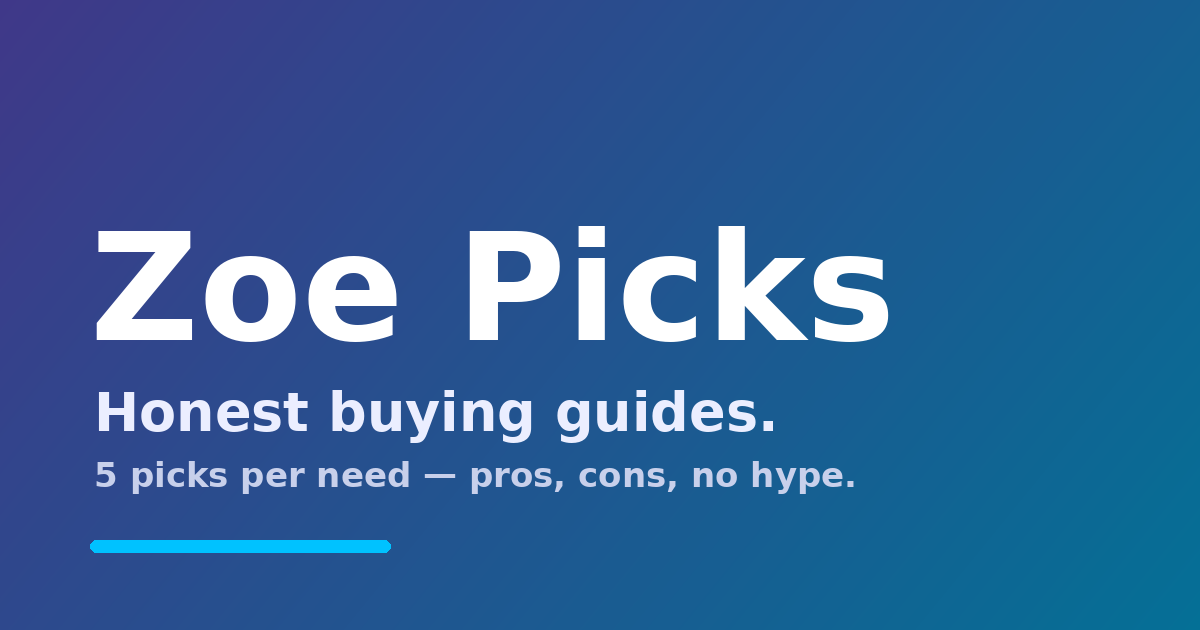
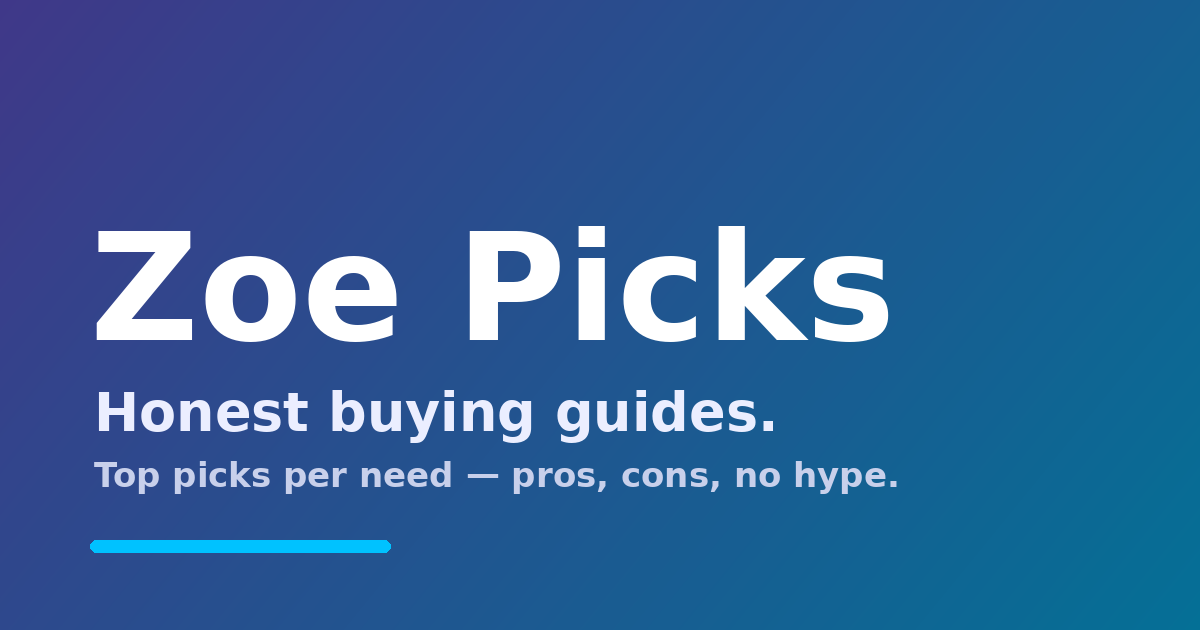
New guide: Best Chromebooks (2026) top 3 from PCWorld testing; og image/homepage copy no longer say '5 picks'

Changed region(s): [[0.0617, 0.7238, 0.74, 0.7841]]

diff --git a/index.html b/index.html
@@ -1,12 +1,12 @@
 <!doctype html><html lang="en"><head><meta charset="utf-8"><meta name="viewport" content="width=device-width,initial-scale=1,viewport-fit=cover">
-<title>Zoe Picks — honest buying guides</title><meta name="description" content="Short, honest comparisons of 5 products for what you actually need. No hype, clear pros and cons.">
-<link rel="canonical" href="https://zoepicks.github.io/"><meta property="og:title" content="Zoe Picks — honest buying guides"><meta property="og:description" content="Short, honest comparisons of 5 products for what you actually need. No hype, clear pros and cons."><meta property="og:type" content="website"><meta property="og:url" content="https://zoepicks.github.io/"><meta property="og:image" content="https://zoepicks.github.io/assets/og.png?v=bcbf76a9"><meta property="og:image:width" content="1200"><meta property="og:image:height" content="630"><meta name="twitter:card" content="summary_large_image"><meta name="twitter:image" content="https://zoepicks.github.io/assets/og.png?v=bcbf76a9">
+<title>Zoe Picks — honest buying guides</title><meta name="description" content="Short, honest comparisons of the best products for what you actually need. No hype, clear pros and cons.">
+<link rel="canonical" href="https://zoepicks.github.io/"><meta property="og:title" content="Zoe Picks — honest buying guides"><meta property="og:description" content="Short, honest comparisons of the best products for what you actually need. No hype, clear pros and cons."><meta property="og:type" content="website"><meta property="og:url" content="https://zoepicks.github.io/"><meta property="og:image" content="https://zoepicks.github.io/assets/og.png?v=ab96e2e8"><meta property="og:image:width" content="1200"><meta property="og:image:height" content="630"><meta name="twitter:card" content="summary_large_image"><meta name="twitter:image" content="https://zoepicks.github.io/assets/og.png?v=ab96e2e8">
 <link rel="preconnect" href="https://fonts.googleapis.com"><link href="https://fonts.googleapis.com/css2?family=Inter:wght@400;500;700;800&display=swap" rel="stylesheet"><link rel="stylesheet" href="assets/style.css"></head><body>
 <nav><div class="wrap"><a class="logo" href="./">Zoe <b>Picks</b></a><a class="l" href="#how">How we pick</a></div></nav>
-<main class="wrap"><section class="hero"><h1>Buy the right thing,<br><span>not the loudest one.</span></h1><p>Five carefully chosen options for your exact need — with the downsides spelled out.</p>
+<main class="wrap"><section class="hero"><h1>Buy the right thing,<br><span>not the loudest one.</span></h1><p>Carefully chosen picks for your exact need — with the downsides spelled out.</p>
 <div class="chips"><span class="chip">✔ Pros &amp; cons</span><span class="chip">✔ Best for whom</span><span class="chip">✔ No fake specs</span></div></section>
 <h2>Browse by category</h2><div class="bento" id="cats"><!--CATS--><a class="cat" href="category.html?c=home_kitchen"><i>🍳</i><b>Home &amp; Kitchen</b></a><a class="cat" href="category.html?c=electronics"><i>🎧</i><b>Electronics</b></a><a class="cat" href="category.html?c=computers_phones"><i>💻</i><b>Computers &amp; Phones</b></a><a class="cat" href="category.html?c=beauty_health"><i>🧴</i><b>Beauty &amp; Health</b></a><a class="cat" href="category.html?c=fitness_outdoor"><i>🏃</i><b>Fitness &amp; Outdoor</b></a><a class="cat" href="category.html?c=fashion"><i>👟</i><b>Fashion</b></a><a class="cat" href="category.html?c=toys_kids"><i>🧸</i><b>Toys &amp; Kids</b></a><a class="cat" href="category.html?c=tools_auto"><i>🔧</i><b>Tools &amp; Auto</b></a><a class="cat" href="category.html?c=pets"><i>🐶</i><b>Pets</b></a><a class="cat" href="category.html?c=office_books"><i>📚</i><b>Office &amp; Books</b></a><a class="cat" href="category.html?c=gaming"><i>🎮</i><b>Gaming</b></a><a class="cat" href="category.html?c=smart_home"><i>🏠</i><b>Smart Home &amp; TV</b></a><a class="cat" href="category.html?c=furniture_decor"><i>🛋</i><b>Furniture &amp; Decor</b></a><a class="cat" href="category.html?c=hobby_music"><i>🎸</i><b>Hobby &amp; Music</b></a><a class="cat" href="category.html?c=other"><i>✨</i><b>More</b></a><!--/CATS--></div>
-<h2>Latest guides</h2><div class="list" id="latest"><!--GUIDES--><a class="item" href="g/best-lightweight-laptops-2026/"><span><b>Best Lightweight Laptops (2026)</b><br><small>Computers &amp; Phones</small></span><small>Oct 15, 2026</small></a><a class="item" href="g/best-laptops-for-battery-life-2026/"><span><b>Best Laptops for All-Day Battery Life (2026)</b><br><small>Computers &amp; Phones</small></span><small>Oct 15, 2026</small></a><a class="item" href="g/best-gaming-laptops-2026/"><span><b>Best Gaming Laptops (2026)</b><br><small>Gaming</small></span><small>Oct 15, 2026</small></a><a class="item" href="g/best-laptops-for-college-students-2026/"><span><b>Best Laptops for College Students (2026)</b><br><small>Computers &amp; Phones</small></span><small>Oct 15, 2026</small></a><!--/GUIDES--></div>
+<h2>Latest guides</h2><div class="list" id="latest"><!--GUIDES--><a class="item" href="g/best-chromebooks-2026/"><span><b>Best Chromebooks (2026)</b><br><small>Computers &amp; Phones</small></span><small>Oct 15, 2026</small></a><a class="item" href="g/best-lightweight-laptops-2026/"><span><b>Best Lightweight Laptops (2026)</b><br><small>Computers &amp; Phones</small></span><small>Oct 15, 2026</small></a><a class="item" href="g/best-laptops-for-battery-life-2026/"><span><b>Best Laptops for All-Day Battery Life (2026)</b><br><small>Computers &amp; Phones</small></span><small>Oct 15, 2026</small></a><a class="item" href="g/best-gaming-laptops-2026/"><span><b>Best Gaming Laptops (2026)</b><br><small>Gaming</small></span><small>Oct 15, 2026</small></a><a class="item" href="g/best-laptops-for-college-students-2026/"><span><b>Best Laptops for College Students (2026)</b><br><small>Computers &amp; Phones</small></span><small>Oct 15, 2026</small></a><!--/GUIDES--></div>
 <h2 id="how">How we pick</h2><div class="how"><div><b>1 · Start from your need</b><span>Budget and use-case first, then specs that matter for that use.</span></div><div><b>2 · Compare real trade-offs</b><span>Every product lists strengths and limits — no one-size-fits-all “best”.</span></div><div><b>3 · Skip what we can't verify</b><span>If a spec or price isn't reliable, we leave it out or mark it unverified.</span></div></div>
 <p class="disc"><b>Disclosure:</b> As an Amazon Associate we earn from qualifying purchases. Links are affiliate links; they cost you nothing extra. Prices change often — always check the current price on Amazon.</p>
 <footer>© Zoe Picks · <a href="https://www.amazon.com">Amazon and the Amazon logo are trademarks of Amazon.com, Inc.</a></footer></main>

diff --git a/g/best-laptops-for-college-students-2026/index.html b/g/best-laptops-for-college-students-2026/index.html
@@ -1,6 +1,6 @@
 <!doctype html><html lang="en"><head><meta charset="utf-8"><meta name="viewport" content="width=device-width,initial-scale=1,viewport-fit=cover">
 <title>Best Laptops for College Students (2026) — Zoe Picks</title><meta name="description" content="5 top-rated laptops for classes, notes and all-day campus use — Windows, Mac and Chromebook options.">
-<meta property="og:title" content="Best Laptops for College Students (2026)"><meta property="og:description" content="5 top-rated laptops for classes, notes and all-day campus use — Windows, Mac and Chromebook options."><meta property="og:type" content="article"><meta property="og:url" content="https://zoepicks.github.io/g/best-laptops-for-college-students-2026/"><link rel="canonical" href="https://zoepicks.github.io/g/best-laptops-for-college-students-2026/"><meta property="og:image" content="https://zoepicks.github.io/assets/og.png?v=bcbf76a9"><meta property="og:image:width" content="1200"><meta property="og:image:height" content="630"><meta name="twitter:card" content="summary_large_image"><meta name="twitter:image" content="https://zoepicks.github.io/assets/og.png?v=bcbf76a9">
+<meta property="og:title" content="Best Laptops for College Students (2026)"><meta property="og:description" content="5 top-rated laptops for classes, notes and all-day campus use — Windows, Mac and Chromebook options."><meta property="og:type" content="article"><meta property="og:url" content="https://zoepicks.github.io/g/best-laptops-for-college-students-2026/"><link rel="canonical" href="https://zoepicks.github.io/g/best-laptops-for-college-students-2026/"><meta property="og:image" content="https://zoepicks.github.io/assets/og.png?v=ab96e2e8"><meta property="og:image:width" content="1200"><meta property="og:image:height" content="630"><meta name="twitter:card" content="summary_large_image"><meta name="twitter:image" content="https://zoepicks.github.io/assets/og.png?v=ab96e2e8">
 <link href="https://fonts.googleapis.com/css2?family=Inter:wght@400;500;700;800&display=swap" rel="stylesheet"><link rel="stylesheet" href="../../assets/style.css"></head><body>
 <nav><div class="wrap"><a class="logo" href="../../">Zoe <b>Picks</b></a><a class="l" href="../../category.html?c=computers_phones">Computers &amp; Phones</a></div></nav>
 <main class="wrap"><div class="g-head"><div class="crumb">Computers &amp; Phones · Oct 15, 2026</div><h1>Best Laptops for College Students (2026)</h1><p class="sum">5 top-rated laptops for classes, notes and all-day campus use — Windows, Mac and Chromebook options.</p></div>
@@ -11,5 +11,5 @@
 <article class="card"><span class="rank">Best Chromebook</span><h3>Asus Chromebook Plus CX34</h3><ul class="specs"><li>Core i5-1335U</li><li>8GB RAM</li><li>128GB storage</li><li>14-in 1080p touchscreen</li><li>~13h battery</li><li>3.17 lb</li></ul><div class="pc"><div class="pro"><b>Pros</b><ul><li>Snappy for everyday tasks</li><li>Nice keyboard</li><li>Plenty of ports</li><li>1080p webcam for video calls</li></ul></div><div class="con"><b>Cons</b><ul><li>Battery life isn&#x27;t class-leading</li><li>16:9 screen feels a bit cramped</li><li>ChromeOS only</li></ul></div></div><div class="best"><b>Best for:</b> Web and Google-based coursework.</div><a class="btn" href="https://www.amazon.com/s?k=ASUS+Chromebook+Plus+CX34+Core+i5&amp;tag=iamcartigo-20" rel="sponsored nofollow noopener" target="_blank">Check price on Amazon <small>(affiliate link)</small></a></article>
 <article class="card"><span class="rank">Lightest / 2-in-1</span><h3>Microsoft Surface Pro</h3><ul class="specs"><li>Snapdragon X Plus</li><li>16GB RAM</li><li>512GB SSD (config reviewed)</li><li>12-in 2196×1464</li><li>Up to ~19h light use</li><li>1.51 lb</li></ul><div class="pc"><div class="pro"><b>Pros</b><ul><li>Extremely light and compact</li><li>Good office performance</li><li>All Copilot+ PC features</li><li>Solid battery in light use</li></ul></div><div class="con"><b>Cons</b><ul><li>Narrow screen to work on</li><li>No HDR</li><li>Charger not included</li><li>Only ~2h at full brightness under heavy use</li></ul></div></div><div class="best"><b>Best for:</b> Note-taking on the go and carrying it everywhere.</div><a class="btn" href="https://www.amazon.com/dp/B0DZ4NT67T?tag=iamcartigo-20" rel="sponsored nofollow noopener" target="_blank">Check price on Amazon <small>(affiliate link)</small></a></article>
 <h2>How we picked these</h2><p class="sum">Picks come from PCWorld&#x27;s hands-on laptop testing (updated Oct 2026). Specs and battery figures are for the configuration they tested; Amazon listings can differ, so check the exact configuration before buying. We don&#x27;t show prices because they change daily. We covered the main student needs: all-day battery, low weight, and a choice of Windows, macOS or ChromeOS. Assumptions: no budget or operating system was specified, so the list spans all three.</p>
-<section class="more"><h2>More guides you might like</h2><div class="rail"><a href="../best-lightweight-laptops-2026/"><small>Computers &amp; Phones · Oct 15, 2026</small><b>Best Lightweight Laptops (2026)</b><span>See top 5 picks →</span></a><a href="../best-laptops-for-battery-life-2026/"><small>Computers &amp; Phones · Oct 15, 2026</small><b>Best Laptops for All-Day Battery Life (2026)</b><span>See top 5 picks →</span></a><a href="../best-gaming-laptops-2026/"><small>Gaming · Oct 15, 2026</small><b>Best Gaming Laptops (2026)</b><span>See top 5 picks →</span></a></div></section>
+<section class="more"><h2>More guides you might like</h2><div class="rail"><a href="../best-chromebooks-2026/"><small>Computers &amp; Phones · Oct 15, 2026</small><b>Best Chromebooks (2026)</b><span>See top 5 picks →</span></a><a href="../best-lightweight-laptops-2026/"><small>Computers &amp; Phones · Oct 15, 2026</small><b>Best Lightweight Laptops (2026)</b><span>See top 5 picks →</span></a><a href="../best-laptops-for-battery-life-2026/"><small>Computers &amp; Phones · Oct 15, 2026</small><b>Best Laptops for All-Day Battery Life (2026)</b><span>See top 5 picks →</span></a><a href="../best-gaming-laptops-2026/"><small>Gaming · Oct 15, 2026</small><b>Best Gaming Laptops (2026)</b><span>See top 5 picks →</span></a></div></section>
 <footer>© Zoe Picks · Specs and prices can change; confirm on the Amazon listing before buying.</footer></main></body></html>

diff --git a/g/best-laptops-for-battery-life-2026/index.html b/g/best-laptops-for-battery-life-2026/index.html
@@ -1,6 +1,6 @@
 <!doctype html><html lang="en"><head><meta charset="utf-8"><meta name="viewport" content="width=device-width,initial-scale=1,viewport-fit=cover">
 <title>Best Laptops for All-Day Battery Life (2026) — Zoe Picks</title><meta name="description" content="5 laptops that lasted 13 to nearly 36 hours in lab battery tests.">
-<meta property="og:title" content="Best Laptops for All-Day Battery Life (2026)"><meta property="og:description" content="5 laptops that lasted 13 to nearly 36 hours in lab battery tests."><meta property="og:type" content="article"><meta property="og:url" content="https://zoepicks.github.io/g/best-laptops-for-battery-life-2026/"><link rel="canonical" href="https://zoepicks.github.io/g/best-laptops-for-battery-life-2026/"><meta property="og:image" content="https://zoepicks.github.io/assets/og.png?v=bcbf76a9"><meta property="og:image:width" content="1200"><meta property="og:image:height" content="630"><meta name="twitter:card" content="summary_large_image"><meta name="twitter:image" content="https://zoepicks.github.io/assets/og.png?v=bcbf76a9">
+<meta property="og:title" content="Best Laptops for All-Day Battery Life (2026)"><meta property="og:description" content="5 laptops that lasted 13 to nearly 36 hours in lab battery tests."><meta property="og:type" content="article"><meta property="og:url" content="https://zoepicks.github.io/g/best-laptops-for-battery-life-2026/"><link rel="canonical" href="https://zoepicks.github.io/g/best-laptops-for-battery-life-2026/"><meta property="og:image" content="https://zoepicks.github.io/assets/og.png?v=ab96e2e8"><meta property="og:image:width" content="1200"><meta property="og:image:height" content="630"><meta name="twitter:card" content="summary_large_image"><meta name="twitter:image" content="https://zoepicks.github.io/assets/og.png?v=ab96e2e8">
 <link href="https://fonts.googleapis.com/css2?family=Inter:wght@400;500;700;800&display=swap" rel="stylesheet"><link rel="stylesheet" href="../../assets/style.css"></head><body>
 <nav><div class="wrap"><a class="logo" href="../../">Zoe <b>Picks</b></a><a class="l" href="../../category.html?c=computers_phones">Computers &amp; Phones</a></div></nav>
 <main class="wrap"><div class="g-head"><div class="crumb">Computers &amp; Phones · Oct 15, 2026</div><h1>Best Laptops for All-Day Battery Life (2026)</h1><p class="sum">5 laptops that lasted 13 to nearly 36 hours in lab battery tests.</p></div>
@@ -11,5 +11,5 @@
 <article class="card"><span class="rank">Light-Use Champ</span><h3>Microsoft Surface Pro</h3><ul class="specs"><li>Snapdragon X Plus</li><li>16GB RAM</li><li>512GB SSD (config reviewed)</li><li>12-in 2196×1464</li><li>Up to ~19h light use</li><li>1.51 lb</li></ul><div class="pc"><div class="pro"><b>Pros</b><ul><li>Extremely light and compact</li><li>Good office performance</li><li>All Copilot+ PC features</li><li>Solid battery in light use</li></ul></div><div class="con"><b>Cons</b><ul><li>Narrow screen to work on</li><li>No HDR</li><li>Charger not included</li><li>Only ~2h at full brightness under heavy use</li></ul></div></div><div class="best"><b>Best for:</b> Email, docs and browsing away from a plug.</div><a class="btn" href="https://www.amazon.com/dp/B0DZ4NT67T?tag=iamcartigo-20" rel="sponsored nofollow noopener" target="_blank">Check price on Amazon <small>(affiliate link)</small></a></article>
 <article class="card"><span class="rank">Best Budget</span><h3>Apple MacBook Neo</h3><ul class="specs"><li>A18 Pro chip</li><li>8GB RAM</li><li>256GB SSD</li><li>13-in 2408×1506 Liquid Retina</li><li>~13h battery</li><li>2.7 lb</li></ul><div class="pc"><div class="pro"><b>Pros</b><ul><li>Sturdy aluminum build</li><li>Very good single-core speed</li><li>Good-looking display</li><li>Feels premium for the price class</li></ul></div><div class="con"><b>Cons</b><ul><li>The two USB-C ports differ in speed</li><li>Multi-core performance lags</li><li>No P3 wide-color support</li><li>Touch ID only on the higher-priced model</li></ul></div></div><div class="best"><b>Best for:</b> Everyday use on a Mac budget.</div><a class="btn" href="https://www.amazon.com/dp/B0GR6KJ72L?tag=iamcartigo-20" rel="sponsored nofollow noopener" target="_blank">Check price on Amazon <small>(affiliate link)</small></a></article>
 <h2>How we picked these</h2><p class="sum">Picks come from PCWorld&#x27;s hands-on laptop testing (updated Oct 2026). Specs and battery figures are for the configuration they tested; Amazon listings can differ, so check the exact configuration before buying. We don&#x27;t show prices because they change daily. Battery numbers are from PCWorld&#x27;s tests (mostly video playback) and real-world runtime will be shorter under heavy use. Assumptions: battery life was the main need; screen size and operating system were open.</p>
-<section class="more"><h2>More guides you might like</h2><div class="rail"><a href="../best-lightweight-laptops-2026/"><small>Computers &amp; Phones · Oct 15, 2026</small><b>Best Lightweight Laptops (2026)</b><span>See top 5 picks →</span></a><a href="../best-laptops-for-college-students-2026/"><small>Computers &amp; Phones · Oct 15, 2026</small><b>Best Laptops for College Students (2026)</b><span>See top 5 picks →</span></a><a href="../best-gaming-laptops-2026/"><small>Gaming · Oct 15, 2026</small><b>Best Gaming Laptops (2026)</b><span>See top 5 picks →</span></a></div></section>
+<section class="more"><h2>More guides you might like</h2><div class="rail"><a href="../best-chromebooks-2026/"><small>Computers &amp; Phones · Oct 15, 2026</small><b>Best Chromebooks (2026)</b><span>See top 5 picks →</span></a><a href="../best-lightweight-laptops-2026/"><small>Computers &amp; Phones · Oct 15, 2026</small><b>Best Lightweight Laptops (2026)</b><span>See top 5 picks →</span></a><a href="../best-laptops-for-college-students-2026/"><small>Computers &amp; Phones · Oct 15, 2026</small><b>Best Laptops for College Students (2026)</b><span>See top 5 picks →</span></a><a href="../best-gaming-laptops-2026/"><small>Gaming · Oct 15, 2026</small><b>Best Gaming Laptops (2026)</b><span>See top 5 picks →</span></a></div></section>
 <footer>© Zoe Picks · Specs and prices can change; confirm on the Amazon listing before buying.</footer></main></body></html>

diff --git a/g/best-lightweight-laptops-2026/index.html b/g/best-lightweight-laptops-2026/index.html
@@ -1,6 +1,6 @@
 <!doctype html><html lang="en"><head><meta charset="utf-8"><meta name="viewport" content="width=device-width,initial-scale=1,viewport-fit=cover">
 <title>Best Lightweight Laptops (2026) — Zoe Picks</title><meta name="description" content="5 top-rated laptops from 1.5 to 3.4 lb that are easy to carry all day.">
-<meta property="og:title" content="Best Lightweight Laptops (2026)"><meta property="og:description" content="5 top-rated laptops from 1.5 to 3.4 lb that are easy to carry all day."><meta property="og:type" content="article"><meta property="og:url" content="https://zoepicks.github.io/g/best-lightweight-laptops-2026/"><link rel="canonical" href="https://zoepicks.github.io/g/best-lightweight-laptops-2026/"><meta property="og:image" content="https://zoepicks.github.io/assets/og.png?v=bcbf76a9"><meta property="og:image:width" content="1200"><meta property="og:image:height" content="630"><meta name="twitter:card" content="summary_large_image"><meta name="twitter:image" content="https://zoepicks.github.io/assets/og.png?v=bcbf76a9">
+<meta property="og:title" content="Best Lightweight Laptops (2026)"><meta property="og:description" content="5 top-rated laptops from 1.5 to 3.4 lb that are easy to carry all day."><meta property="og:type" content="article"><meta property="og:url" content="https://zoepicks.github.io/g/best-lightweight-laptops-2026/"><link rel="canonical" href="https://zoepicks.github.io/g/best-lightweight-laptops-2026/"><meta property="og:image" content="https://zoepicks.github.io/assets/og.png?v=ab96e2e8"><meta property="og:image:width" content="1200"><meta property="og:image:height" content="630"><meta name="twitter:card" content="summary_large_image"><meta name="twitter:image" content="https://zoepicks.github.io/assets/og.png?v=ab96e2e8">
 <link href="https://fonts.googleapis.com/css2?family=Inter:wght@400;500;700;800&display=swap" rel="stylesheet"><link rel="stylesheet" href="../../assets/style.css"></head><body>
 <nav><div class="wrap"><a class="logo" href="../../">Zoe <b>Picks</b></a><a class="l" href="../../category.html?c=computers_phones">Computers &amp; Phones</a></div></nav>
 <main class="wrap"><div class="g-head"><div class="crumb">Computers &amp; Phones · Oct 15, 2026</div><h1>Best Lightweight Laptops (2026)</h1><p class="sum">5 top-rated laptops from 1.5 to 3.4 lb that are easy to carry all day.</p></div>
@@ -11,5 +11,5 @@
 <article class="card"><span class="rank">Best Battery</span><h3>Dell 14S</h3><ul class="specs"><li>Core Ultra 7 355</li><li>16GB RAM</li><li>512GB SSD</li><li>14-in 1920×1200 OLED touch</li><li>~36h offline video playback (PCWorld test)</li><li>3.28 lb</li></ul><div class="pc"><div class="pro"><b>Pros</b><ul><li>Longest battery life PCWorld has recorded</li><li>Polished build</li><li>Colorful, accurate display</li><li>Good port selection</li></ul></div><div class="con"><b>Cons</b><ul><li>Weak 3D graphics</li><li>Screen isn&#x27;t very bright</li><li>Performance is only so-so for the money</li></ul></div></div><div class="best"><b>Best for:</b> Light carry plus very long battery life.</div><a class="btn" href="https://www.amazon.com/s?k=Dell+14S+laptop+Core+Ultra+7+355&amp;tag=iamcartigo-20" rel="sponsored nofollow noopener" target="_blank">Check price on Amazon <small>(affiliate link)</small></a></article>
 <article class="card"><span class="rank">Light 16-Inch</span><h3>Acer Swift 16 AI (Lunar Lake)</h3><ul class="specs"><li>Core Ultra 7 256V</li><li>16GB RAM</li><li>1TB SSD</li><li>16-in 2880×1800 OLED</li><li>~17.5h battery (PCWorld test)</li><li>3.37 lb</li></ul><div class="pc"><div class="pro"><b>Pros</b><ul><li>Light for a 16-inch laptop</li><li>Sharp, bright OLED screen</li><li>Comfortable keyboard</li><li>Lasts a full day of classes</li></ul></div><div class="con"><b>Cons</b><ul><li>AI features feel underdeveloped</li><li>A few keyboard keys are cramped</li><li>Lots of preinstalled apps</li></ul></div></div><div class="best"><b>Best for:</b> Big-screen comfort at a low weight.</div><a class="btn" href="https://www.amazon.com/dp/B0F28NWHQ8?tag=iamcartigo-20" rel="sponsored nofollow noopener" target="_blank">Check price on Amazon <small>(affiliate link)</small></a></article>
 <h2>How we picked these</h2><p class="sum">Picks come from PCWorld&#x27;s hands-on laptop testing (updated Oct 2026). Specs and battery figures are for the configuration they tested; Amazon listings can differ, so check the exact configuration before buying. We don&#x27;t show prices because they change daily. Weights are the manufacturer figures reported in PCWorld&#x27;s reviews. Assumptions: portability was the main need; budget and operating system were open.</p>
-<section class="more"><h2>More guides you might like</h2><div class="rail"><a href="../best-laptops-for-battery-life-2026/"><small>Computers &amp; Phones · Oct 15, 2026</small><b>Best Laptops for All-Day Battery Life (2026)</b><span>See top 5 picks →</span></a><a href="../best-laptops-for-college-students-2026/"><small>Computers &amp; Phones · Oct 15, 2026</small><b>Best Laptops for College Students (2026)</b><span>See top 5 picks →</span></a><a href="../best-gaming-laptops-2026/"><small>Gaming · Oct 15, 2026</small><b>Best Gaming Laptops (2026)</b><span>See top 5 picks →</span></a></div></section>
+<section class="more"><h2>More guides you might like</h2><div class="rail"><a href="../best-chromebooks-2026/"><small>Computers &amp; Phones · Oct 15, 2026</small><b>Best Chromebooks (2026)</b><span>See top 5 picks →</span></a><a href="../best-laptops-for-battery-life-2026/"><small>Computers &amp; Phones · Oct 15, 2026</small><b>Best Laptops for All-Day Battery Life (2026)</b><span>See top 5 picks →</span></a><a href="../best-laptops-for-college-students-2026/"><small>Computers &amp; Phones · Oct 15, 2026</small><b>Best Laptops for College Students (2026)</b><span>See top 5 picks →</span></a><a href="../best-gaming-laptops-2026/"><small>Gaming · Oct 15, 2026</small><b>Best Gaming Laptops (2026)</b><span>See top 5 picks →</span></a></div></section>
 <footer>© Zoe Picks · Specs and prices can change; confirm on the Amazon listing before buying.</footer></main></body></html>

diff --git a/g/best-chromebooks-2026/index.html b/g/best-chromebooks-2026/index.html
@@ -1,0 +1,13 @@
+<!doctype html><html lang="en"><head><meta charset="utf-8"><meta name="viewport" content="width=device-width,initial-scale=1,viewport-fit=cover">
+<title>Best Chromebooks (2026) — Zoe Picks</title><meta name="description" content="3 top Chromebooks tested by PCWorld: best overall, best budget and best high-end.">
+<meta property="og:title" content="Best Chromebooks (2026)"><meta property="og:description" content="3 top Chromebooks tested by PCWorld: best overall, best budget and best high-end."><meta property="og:type" content="article"><meta property="og:url" content="https://zoepicks.github.io/g/best-chromebooks-2026/"><link rel="canonical" href="https://zoepicks.github.io/g/best-chromebooks-2026/"><meta property="og:image" content="https://zoepicks.github.io/assets/og.png?v=ab96e2e8"><meta property="og:image:width" content="1200"><meta property="og:image:height" content="630"><meta name="twitter:card" content="summary_large_image"><meta name="twitter:image" content="https://zoepicks.github.io/assets/og.png?v=ab96e2e8">
+<link href="https://fonts.googleapis.com/css2?family=Inter:wght@400;500;700;800&display=swap" rel="stylesheet"><link rel="stylesheet" href="../../assets/style.css"></head><body>
+<nav><div class="wrap"><a class="logo" href="../../">Zoe <b>Picks</b></a><a class="l" href="../../category.html?c=computers_phones">Computers &amp; Phones</a></div></nav>
+<main class="wrap"><div class="g-head"><div class="crumb">Computers &amp; Phones · Oct 15, 2026</div><h1>Best Chromebooks (2026)</h1><p class="sum">3 top Chromebooks tested by PCWorld: best overall, best budget and best high-end.</p></div>
+<p class="disc"><b>Disclosure:</b> As an Amazon Associate we earn from qualifying purchases. Links below are affiliate links. Prices change often — check the current price on Amazon.</p>
+<article class="card"><span class="rank">Best Overall</span><h3>Asus Chromebook Plus CX34</h3><ul class="specs"><li>Intel Core i5</li><li>8GB RAM</li><li>1080p display (16:9)</li><li>~13h battery</li><li>USB-C, USB-A, HDMI, headphone jack</li><li>Full HD webcam</li></ul><div class="pc"><div class="pro"><b>Pros</b><ul><li>Fast, smooth performance with many tabs open</li><li>Comfortable keyboard</li><li>Plenty of ports, so no dongles needed</li><li>Clean, stylish design</li></ul></div><div class="con"><b>Cons</b><ul><li>Battery life trails some rivals</li><li>The 16:9 screen feels a bit cramped</li></ul></div></div><div class="best"><b>Best for:</b> One Chromebook that handles schoolwork, streaming and video calls.</div><a class="btn" href="https://www.amazon.com/s?k=ASUS+Chromebook+Plus+CX34+Core+i5&amp;tag=iamcartigo-20" rel="sponsored nofollow noopener" target="_blank">Check price on Amazon <small>(affiliate link)</small></a></article>
+<article class="card"><span class="rank">Best Budget</span><h3>Asus Chromebook CX15</h3><ul class="specs"><li>Intel Celeron N4500</li><li>4GB RAM (as reviewed)</li><li>15.6-in 1080p display</li><li>~10h battery</li></ul><div class="pc"><div class="pro"><b>Pros</b><ul><li>Sharp 15.6-inch 1080p screen</li><li>Enjoyable keyboard and solid design</li><li>Decent speakers</li><li>Very low price for what you get</li></ul></div><div class="con"><b>Cons</b><ul><li>Small touchpad</li><li>Slow dual-core processor</li><li>4GB RAM can hold it back</li><li>Battery is short for a Chromebook</li></ul></div></div><div class="best"><b>Best for:</b> Web browsing and YouTube on a tight budget.</div><a class="btn" href="https://www.amazon.com/s?k=ASUS+Chromebook+CX15+CX1505&amp;tag=iamcartigo-20" rel="sponsored nofollow noopener" target="_blank">Check price on Amazon <small>(affiliate link)</small></a></article>
+<article class="card"><span class="rank">Best High-End</span><h3>Lenovo Chromebook Plus 14</h3><ul class="specs"><li>MediaTek Kompanio Ultra 910</li><li>16GB RAM, 256GB UFS (as tested)</li><li>14-in 1920×1200 OLED touchscreen</li><li>~19h battery (conservative brightness)</li><li>2.78 lb, fanless</li></ul><div class="pc"><div class="pro"><b>Pros</b><ul><li>Lovely OLED display</li><li>Strong performance for a fanless Chromebook</li><li>Loud, clear speakers</li><li>Competitive battery life</li></ul></div><div class="con"><b>Cons</b><ul><li>Small function keys are hard to read and pick up fingerprints</li><li>The AI features feel unnecessary in daily use</li></ul></div></div><div class="best"><b>Best for:</b> A Chromebook that looks and feels premium.</div><a class="btn" href="https://www.amazon.com/s?k=Lenovo+Chromebook+Plus+14+OLED+Kompanio+Ultra&amp;tag=iamcartigo-20" rel="sponsored nofollow noopener" target="_blank">Check price on Amazon <small>(affiliate link)</small></a></article>
+<h2>How we picked these</h2><p class="sum">Picks come from PCWorld&#x27;s hands-on Chromebook testing (updated Oct 14, 2026). Specs and battery figures are for the configurations they tested; retail listings can differ in processor, RAM and storage, so check the exact configuration before buying. We don&#x27;t show prices because they change daily. The three picks cover three different needs: the best all-rounder, the lowest-cost option and a premium step-up. Assumptions: only picks with fully documented test results are listed, so this is a top-3 guide rather than a top-5.</p>
+<section class="more"><h2>More guides you might like</h2><div class="rail"><a href="../best-lightweight-laptops-2026/"><small>Computers &amp; Phones · Oct 15, 2026</small><b>Best Lightweight Laptops (2026)</b><span>See top 5 picks →</span></a><a href="../best-laptops-for-battery-life-2026/"><small>Computers &amp; Phones · Oct 15, 2026</small><b>Best Laptops for All-Day Battery Life (2026)</b><span>See top 5 picks →</span></a><a href="../best-laptops-for-college-students-2026/"><small>Computers &amp; Phones · Oct 15, 2026</small><b>Best Laptops for College Students (2026)</b><span>See top 5 picks →</span></a><a href="../best-gaming-laptops-2026/"><small>Gaming · Oct 15, 2026</small><b>Best Gaming Laptops (2026)</b><span>See top 5 picks →</span></a></div></section>
+<footer>© Zoe Picks · Specs and prices can change; confirm on the Amazon listing before buying.</footer></main></body></html>

diff --git a/g/best-gaming-laptops-2026/index.html b/g/best-gaming-laptops-2026/index.html
@@ -1,6 +1,6 @@
 <!doctype html><html lang="en"><head><meta charset="utf-8"><meta name="viewport" content="width=device-width,initial-scale=1,viewport-fit=cover">
 <title>Best Gaming Laptops (2026) — Zoe Picks</title><meta name="description" content="5 top-rated gaming laptops from budget RTX 5050 to a high-end RTX 5080 desktop replacement.">
-<meta property="og:title" content="Best Gaming Laptops (2026)"><meta property="og:description" content="5 top-rated gaming laptops from budget RTX 5050 to a high-end RTX 5080 desktop replacement."><meta property="og:type" content="article"><meta property="og:url" content="https://zoepicks.github.io/g/best-gaming-laptops-2026/"><link rel="canonical" href="https://zoepicks.github.io/g/best-gaming-laptops-2026/"><meta property="og:image" content="https://zoepicks.github.io/assets/og.png?v=bcbf76a9"><meta property="og:image:width" content="1200"><meta property="og:image:height" content="630"><meta name="twitter:card" content="summary_large_image"><meta name="twitter:image" content="https://zoepicks.github.io/assets/og.png?v=bcbf76a9">
+<meta property="og:title" content="Best Gaming Laptops (2026)"><meta property="og:description" content="5 top-rated gaming laptops from budget RTX 5050 to a high-end RTX 5080 desktop replacement."><meta property="og:type" content="article"><meta property="og:url" content="https://zoepicks.github.io/g/best-gaming-laptops-2026/"><link rel="canonical" href="https://zoepicks.github.io/g/best-gaming-laptops-2026/"><meta property="og:image" content="https://zoepicks.github.io/assets/og.png?v=ab96e2e8"><meta property="og:image:width" content="1200"><meta property="og:image:height" content="630"><meta name="twitter:card" content="summary_large_image"><meta name="twitter:image" content="https://zoepicks.github.io/assets/og.png?v=ab96e2e8">
 <link href="https://fonts.googleapis.com/css2?family=Inter:wght@400;500;700;800&display=swap" rel="stylesheet"><link rel="stylesheet" href="../../assets/style.css"></head><body>
 <nav><div class="wrap"><a class="logo" href="../../">Zoe <b>Picks</b></a><a class="l" href="../../category.html?c=gaming">Gaming</a></div></nav>
 <main class="wrap"><div class="g-head"><div class="crumb">Gaming · Oct 15, 2026</div><h1>Best Gaming Laptops (2026)</h1><p class="sum">5 top-rated gaming laptops from budget RTX 5050 to a high-end RTX 5080 desktop replacement.</p></div>
@@ -11,5 +11,5 @@
 <article class="card"><span class="rank">Best High-End</span><h3>Alienware Area-51 (16-inch)</h3><ul class="specs"><li>Core Ultra 9 290HX</li><li>RTX 5080</li><li>16-in 2560×1600 OLED, 240Hz, G-Sync</li><li>7+ lb</li></ul><div class="pc"><div class="pro"><b>Pros</b><ul><li>Sturdy build</li><li>Excellent optional mechanical keyboard</li><li>Thunderbolt 5 and lots of ports</li><li>Extremely powerful CPU</li></ul></div><div class="con"><b>Cons</b><ul><li>Heavy and thick</li><li>Tiny touchpad</li><li>Short battery life on the OLED model</li><li>Very high price</li></ul></div></div><div class="best"><b>Best for:</b> A desktop replacement with maximum power.</div><a class="btn" href="https://www.amazon.com/s?k=Alienware+16+Area-51+RTX+5080&amp;tag=iamcartigo-20" rel="sponsored nofollow noopener" target="_blank">Check price on Amazon <small>(affiliate link)</small></a></article>
 <article class="card"><span class="rank">Compact Pick</span><h3>Acer Predator Helios Neo 14 AI</h3><ul class="specs"><li>Core Ultra 9 285H</li><li>RTX 5070</li><li>14.5-in 2880×1800 OLED, 120Hz</li></ul><div class="pc"><div class="pro"><b>Pros</b><ul><li>Compact for an RTX 5070 laptop</li><li>OLED display</li></ul></div><div class="con"><b>Cons</b><ul><li>Smaller screen than 16-inch rivals</li><li>We have fewer tested details on this one — read a full review</li></ul></div></div><div class="best"><b>Best for:</b> A small-screen RTX 5070 laptop with an OLED display.</div><a class="btn" href="https://www.amazon.com/dp/B0FRN8G5PG?tag=iamcartigo-20" rel="sponsored nofollow noopener" target="_blank">Check price on Amazon <small>(affiliate link)</small></a></article>
 <h2>How we picked these</h2><p class="sum">Picks come from PCWorld&#x27;s hands-on laptop testing (updated Oct 2026). Specs and battery figures are for the configuration they tested; Amazon listings can differ, so check the exact configuration before buying. We don&#x27;t show prices because they change daily. Gaming picks are ordered around how you play: value, all-round performance, portability and maximum power. Assumptions: no budget was specified, so the list runs from about the $1,000 class up to enthusiast machines.</p>
-<section class="more"><h2>More guides you might like</h2><div class="rail"><a href="../best-lightweight-laptops-2026/"><small>Computers &amp; Phones · Oct 15, 2026</small><b>Best Lightweight Laptops (2026)</b><span>See top 5 picks →</span></a><a href="../best-laptops-for-battery-life-2026/"><small>Computers &amp; Phones · Oct 15, 2026</small><b>Best Laptops for All-Day Battery Life (2026)</b><span>See top 5 picks →</span></a><a href="../best-laptops-for-college-students-2026/"><small>Computers &amp; Phones · Oct 15, 2026</small><b>Best Laptops for College Students (2026)</b><span>See top 5 picks →</span></a></div></section>
+<section class="more"><h2>More guides you might like</h2><div class="rail"><a href="../best-chromebooks-2026/"><small>Computers &amp; Phones · Oct 15, 2026</small><b>Best Chromebooks (2026)</b><span>See top 5 picks →</span></a><a href="../best-lightweight-laptops-2026/"><small>Computers &amp; Phones · Oct 15, 2026</small><b>Best Lightweight Laptops (2026)</b><span>See top 5 picks →</span></a><a href="../best-laptops-for-battery-life-2026/"><small>Computers &amp; Phones · Oct 15, 2026</small><b>Best Laptops for All-Day Battery Life (2026)</b><span>See top 5 picks →</span></a><a href="../best-laptops-for-college-students-2026/"><small>Computers &amp; Phones · Oct 15, 2026</small><b>Best Laptops for College Students (2026)</b><span>See top 5 picks →</span></a></div></section>
 <footer>© Zoe Picks · Specs and prices can change; confirm on the Amazon listing before buying.</footer></main></body></html>
